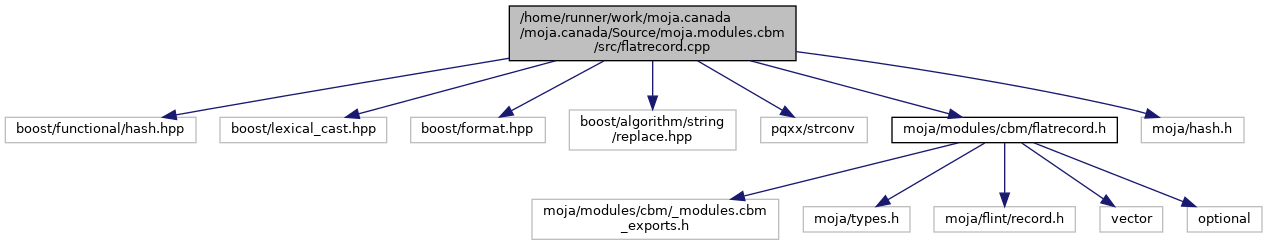
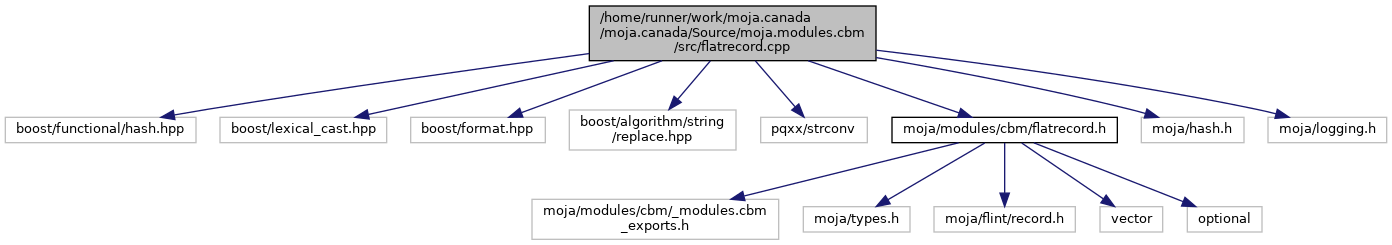
deploy: 695129d1531e4db420399b950ded68fda06c266e

diff --git a/flatrecord_8cpp.html b/flatrecord_8cpp.html
@@ -79,12 +79,13 @@ $(function() {
 <code>#include &lt;pqxx/strconv&gt;</code><br />
 <code>#include &quot;<a class="el" href="flatrecord_8h_source.html">moja/modules/cbm/flatrecord.h</a>&quot;</code><br />
 <code>#include &quot;moja/hash.h&quot;</code><br />
+<code>#include &quot;moja/logging.h&quot;</code><br />
 </div><div class="textblock"><div class="dynheader">
 Include dependency graph for flatrecord.cpp:</div>
 <div class="dyncontent">
 <div class="center"><img src="flatrecord_8cpp__incl.png" border="0" usemap="#a_2home_2runner_2work_2moja_8canada_2moja_8canada_2Source_2moja_8modules_8cbm_2src_2flatrecord_8cpp" alt=""/></div>
 <map name="a_2home_2runner_2work_2moja_8canada_2moja_8canada_2Source_2moja_8modules_8cbm_2src_2flatrecord_8cpp" id="a_2home_2runner_2work_2moja_8canada_2moja_8canada_2Source_2moja_8modules_8cbm_2src_2flatrecord_8cpp">
-<area shape="rect" title=" " alt="" coords="509,5,796,61"/>
+<area shape="rect" title=" " alt="" coords="589,5,876,61"/>
 <area shape="rect" title=" " alt="" coords="5,117,196,143"/>
 <area shape="rect" title=" " alt="" coords="220,117,387,143"/>
 <area shape="rect" title=" " alt="" coords="411,117,545,143"/>
@@ -92,6 +93,7 @@ Include dependency graph for flatrecord.cpp:</div>
 <area shape="rect" title=" " alt="" coords="761,117,867,143"/>
 <area shape="rect" href="flatrecord_8h.html" title=" " alt="" coords="892,117,1117,143"/>
 <area shape="rect" title=" " alt="" coords="1141,117,1244,143"/>
+<area shape="rect" title=" " alt="" coords="1268,117,1387,143"/>
 <area shape="rect" title=" " alt="" coords="532,199,779,240"/>
 <area shape="rect" title=" " alt="" coords="803,206,910,233"/>
 <area shape="rect" title=" " alt="" coords="934,206,1075,233"/>
